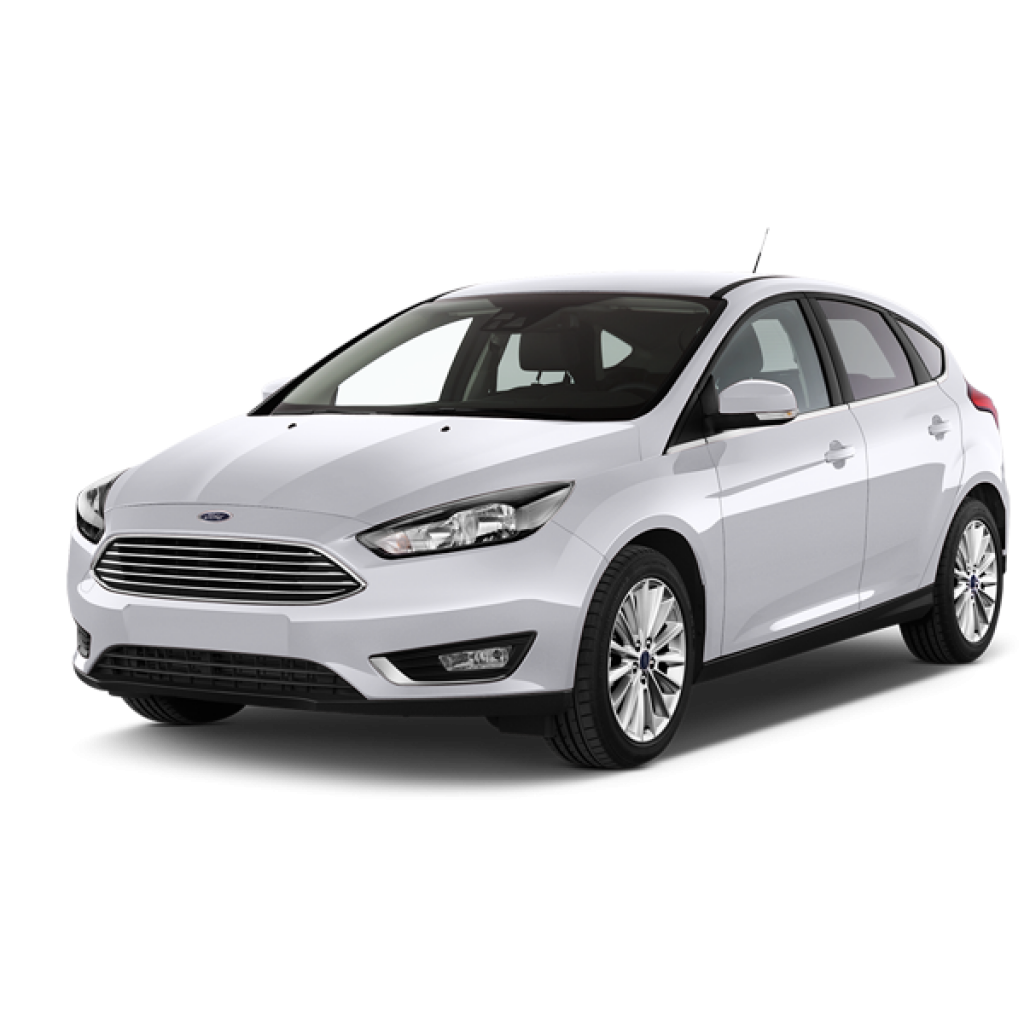
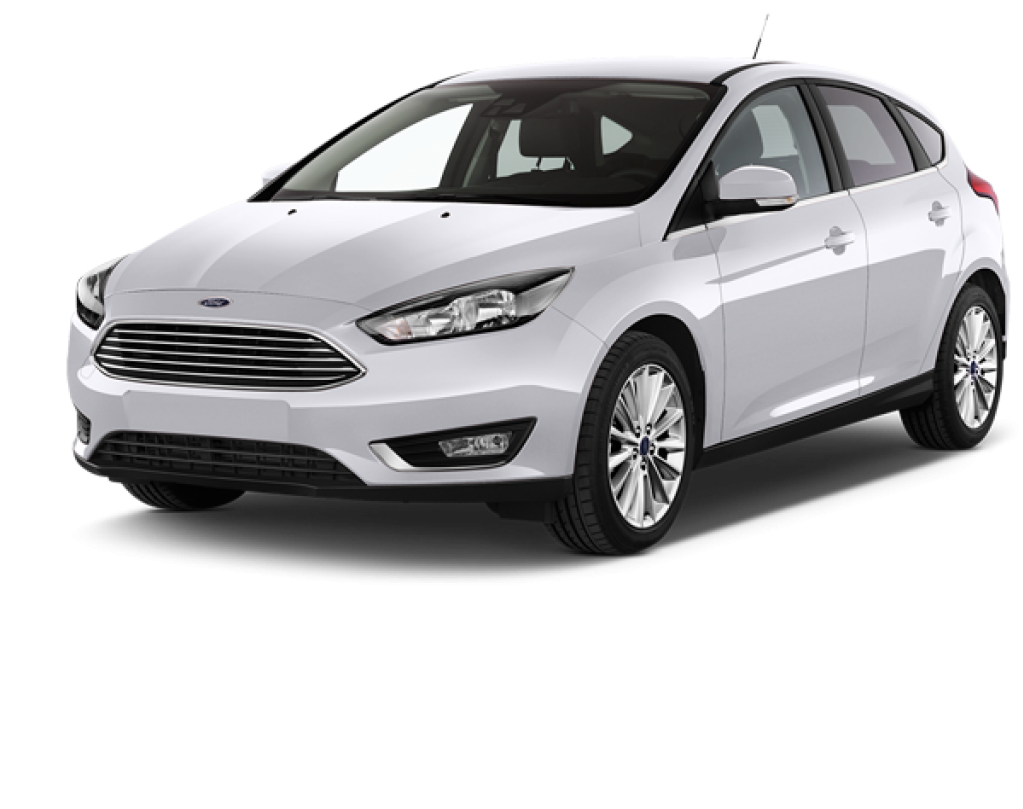
lesson4

diff --git a/index.html b/index.html
@@ -24,7 +24,9 @@
                     <hr/>
                     <ul class="list-group">
                         <li 
-                            v-for="car in cars"
+                            v-for="(car,index) of cars"
+                            v-on:click="selectedCar(index)"
+                            :class="{'active': selectedCarIndex === index}"
                             class="list-group-item list-group-item-action pointer">
                                 {{car.name}} - {{car.model}}
                         </li>
@@ -34,19 +36,23 @@
             <div class="col-md-8 pt-3">
                 <div class="row">
                     <div class="col-md-5">
-                        <h2>Ford</h2>
-                        <img src="images/focus.png" alt="" class="rounded detailed-car-image"/>
+                        <h2>{{ car.name }}</h2>
+                        <img 
+                            :src="car.image"
+                            :alt="car.name"
+                            class="rounded detailed-car-image"
+                        />
                     </div>
                     <div class="col-md-7 pt-2">
                         <h5>car details</h5>
 
                         <ul>
-                            <li>Model - <strong>Focus</strong></li>
-                            <li>Year - <strong>2015</strong></li>
-                            <li>Owner - <strong>Max</strong></li>
+                            <li>Model - <strong>{{ car.model }}</strong></li>
+                            <li>Year - <strong>{{ car.year }}</strong></li>
+                            <li>Owner - <strong>{{ car.name }}</strong></li>
                         </ul>
-                        <p>Phone +7 912 233 21 11</p>
-                        <button class="btn btn-outline-success mr-3">Show phone</button>
+                        <p v-if="phoneVisibility">{{ car.phone }}</p>
+                        <button class="btn btn-outline-success mr-3" v-on:click="phoneVisibility = true">Show phone</button>
                         <button class="btn btn-primary">Buy</button>
 
                     </div>

diff --git a/app.js b/app.js
@@ -3,14 +3,23 @@ const car = (name, model, year, owner, phone, image) => ({name, model, year, own
 let cars = 
     [
         car("Ford", "Focus", "2015", "Max", "+7 912 078 46 81", "images/focus.png"),
-        car("Ford", "Mondeo", "2018", "irina", "+7 932 344 32 12", "images/mondeo.jpg"),
-        car("Kia", "Ria", "2016", "Valentina", "+7 902 343 17 18", "images/kia.jpg"),
+        car("Ford", "Mondeo", "2018", "irina", "+7 932 344 32 12", "images/mondeo.png"),
+        car("Kia", "Ria", "2016", "Valentina", "+7 902 343 17 18", "images/kia.png"),
         
     ]
 
 new Vue({
     el: "#app",
     data: {
-        cars: cars
+        cars: cars,
+        selectedCarIndex: 0,
+        car: cars[0],
+        phoneVisibility: false
+    },
+    methods: {
+        selectedCar: function(index) {
+            this.car = cars[index];
+            this.selectedCarIndex = index;
+        }
     }
 });

diff --git a/app.css b/app.css
@@ -1,5 +1,5 @@
 .detailed-car-image{
-    height: 200px;
+    width: 300px;
 }
 
 .pointer{
